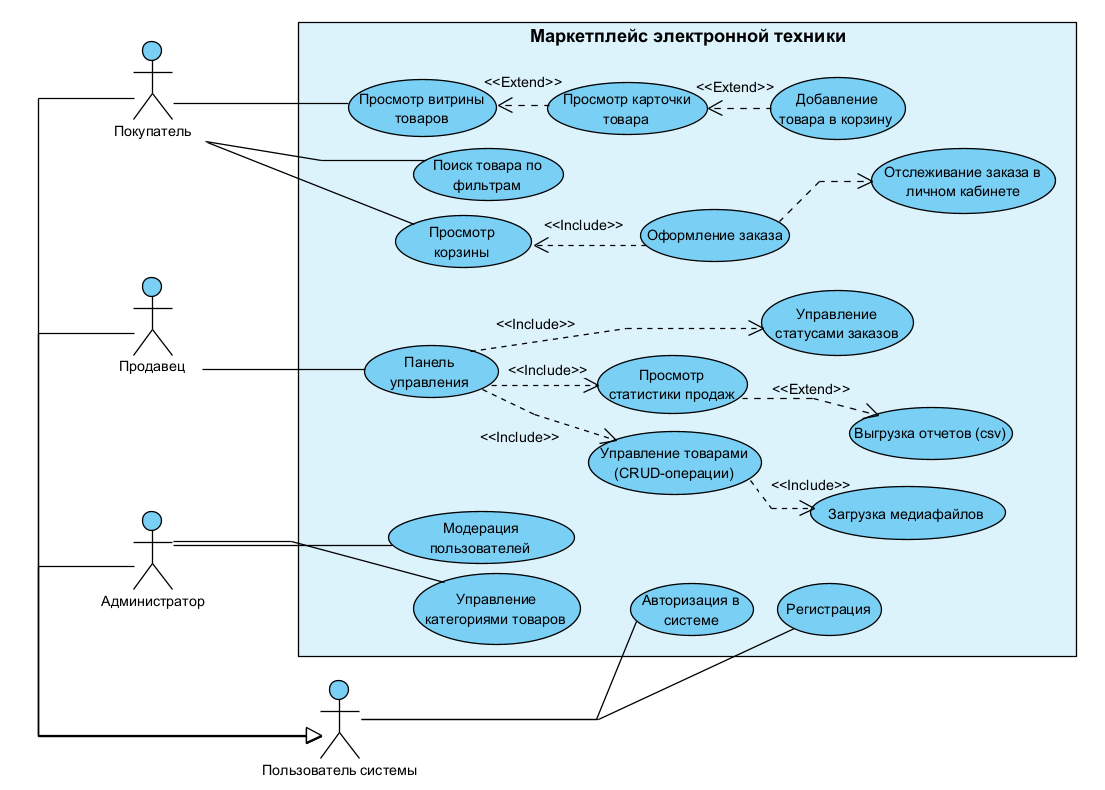
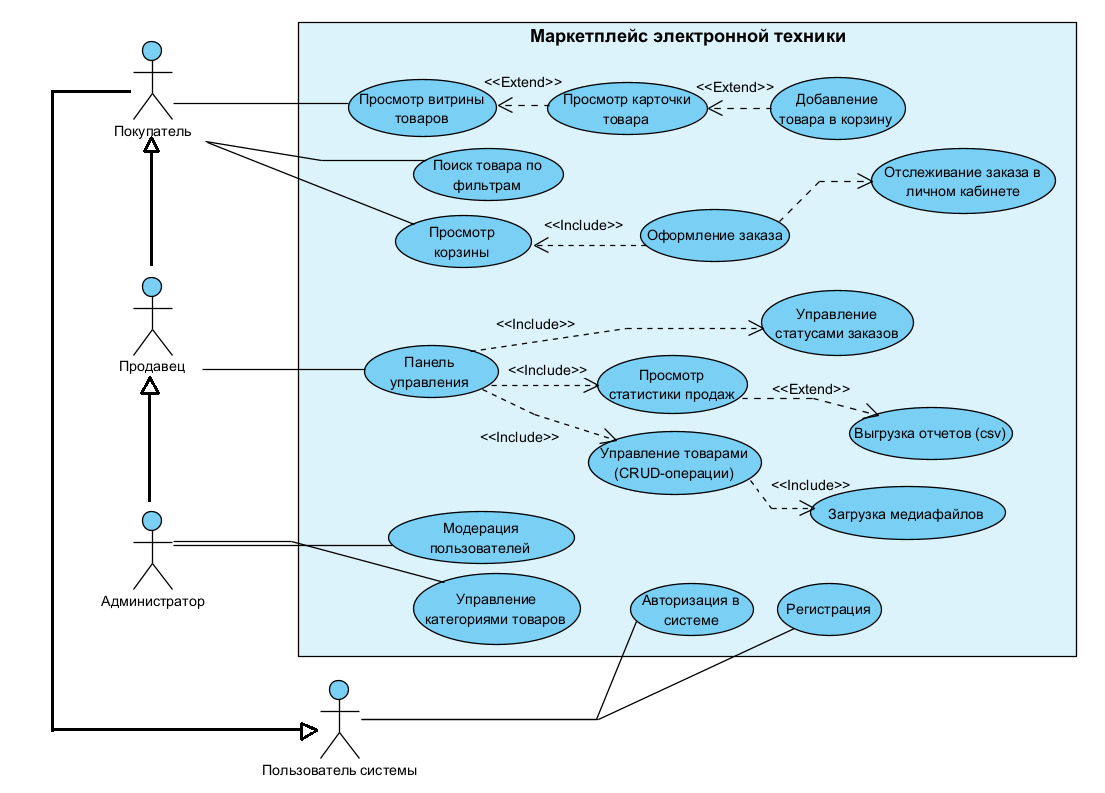
исправления, 2 раздел (usecase наследование, erd)

diff --git a/docs/latex/chapter2.tex b/docs/latex/chapter2.tex
@@ -198,7 +198,8 @@
 	id & UUID & PRIMARY KEY & Уникальный идентификатор \\ \hline
 	customer\_id & UUID & FOREIGN KEY & Ссылка на покупателя \\ \hline
 	delivery\_address & TEXT & NOT NULL & Полный адрес доставки \\ \hline
-	total\_amount & DECIMAL(10,2) & NOT NULL & Итоговая сумма заказа \\ \hline
+	delivery\_date & DATE & NOT NULL & Плановая дата доставки \\ \hline
+	total\_price & DECIMAL(10,2) & NOT NULL & Итоговая стоимость заказа \\ \hline
 	created\_at & TIMESTAMP & DEFAULT NOW() & Дата и время оформления \\ \hline
 \end{longtable}
 